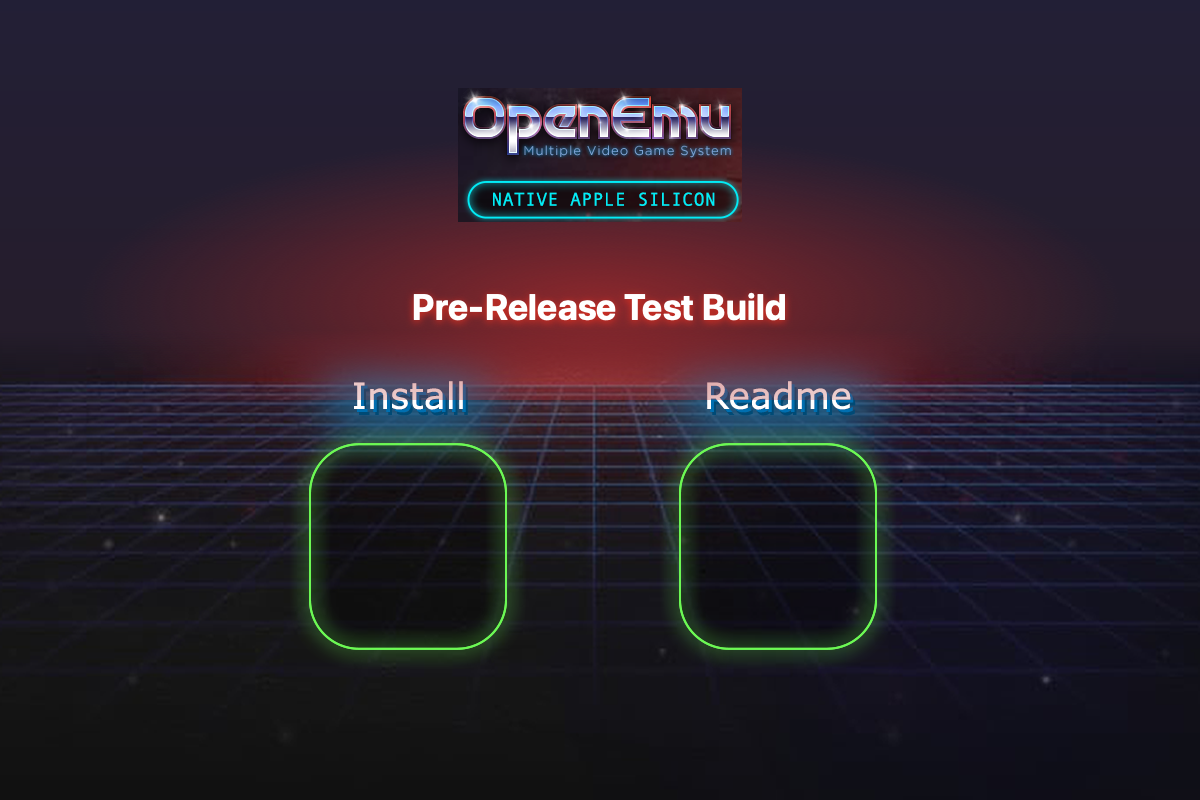
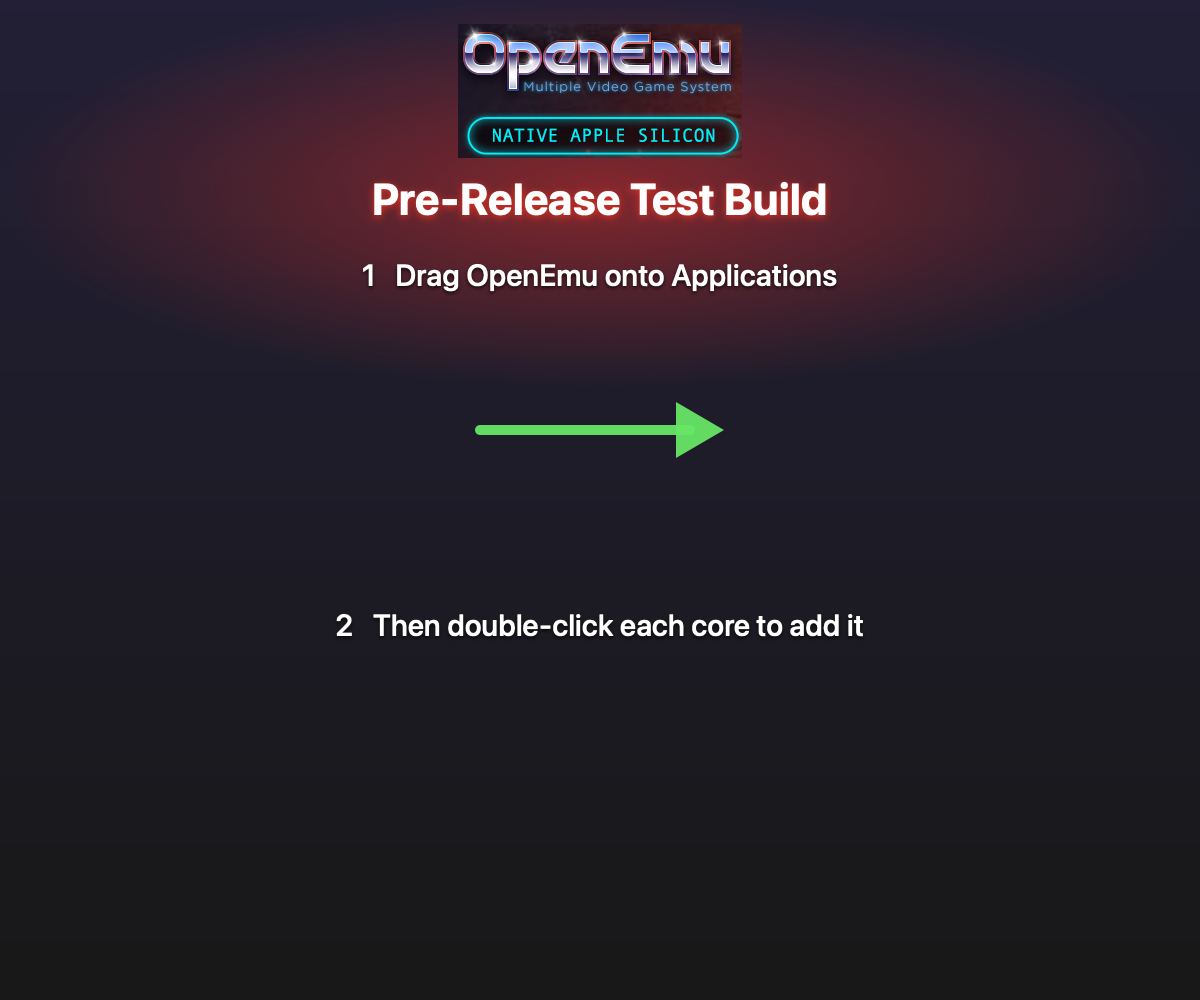
feat: preview DMG is a plain drag-to-Applications image with a Cores folder
The installer script and the installer app both proved fragile (Gatekeeper cannot
approve a script; a downloaded installer app runs from a temporary copy). Ship
OpenEmu.app, an Applications shortcut and a Cores folder instead; OpenEmu imports a
core plugin that is opened with it. New background with the two steps, readme and
tester notes updated.

diff --git a/Scripts/prerelease/make-background.swift b/Scripts/prerelease/make-background.swift
@@ -4,9 +4,10 @@
 // modification, are permitted provided that the following conditions are met:
 // ... (BSD 2-Clause, same as the rest of the app)
 //
-// make-background.swift: builds the pre-release DMG window background from the RetroAchievements review
-// background by covering its RetroAchievements logo and title with matching background and drawing the
-// pre-release title instead. Run once; the result is committed as dmg-assets/background.png.
+// make-background.swift: builds the pre-release DMG window background (600 x 500 points, drawn at 2x). It takes
+// the OpenEmu logo and the dark colours from the RetroAchievements review background and draws the rest: a
+// gradient, a red glow, the title, two numbered steps and an arrow. Finder puts the icons on top at the
+// positions set in build-preview-dmg.sh. Run once; the result is committed as dmg-assets/background.png.
 //
 //   swiftc -O Scripts/prerelease/make-background.swift -o /tmp/make-background
 //   /tmp/make-background Scripts/retro-achievements/dmg-assets/background.png Scripts/prerelease/dmg-assets/background.png
@@ -21,24 +22,16 @@ guard args.count == 3, let source = NSImage(contentsOfFile: args[1]),
     exit(1)
 }
 
-let w = cg.width, h = cg.height
+// Everything below is in points (600 x 500) and measured from the top left; S converts to pixels.
+let S = 2
+let w = 600 * S, h = 500 * S
 let space = CGColorSpace(name: CGColorSpace.sRGB)!
 let ctx = CGContext(data: nil, width: w, height: h, bitsPerComponent: 8, bytesPerRow: 0, space: space,
                     bitmapInfo: CGImageAlphaInfo.premultipliedLast.rawValue)!
+func y(_ top: CGFloat) -> CGFloat { CGFloat(h) - top * CGFloat(S) }  // top-left point -> context y
+func px(_ v: CGFloat) -> CGFloat { v * CGFloat(S) }
 
-// CoreGraphics has its origin at the bottom left; the layout below is measured from the top, as in an image editor.
-func rect(_ x: Int, _ top: Int, _ width: Int, _ height: Int) -> CGRect {
-    CGRect(x: x, y: h - top - height, width: width, height: height)
-}
-// CGImage.cropping measures from the top left, unlike the drawing context.
-func crop(_ x: Int, _ top: Int, _ width: Int, _ height: Int) -> CGImage {
-    cg.cropping(to: CGRect(x: x, y: top, width: width, height: height))!
-}
-
-ctx.draw(cg, in: CGRect(x: 0, y: 0, width: w, height: h))
-
-// 1. Replace everything above the grid (the RetroAchievements logo, divider and title included) with a smooth
-//    dark gradient sampled from the original's left edge, fading into the original where the grid begins.
+// Colours sampled from the original's left edge: dark navy at the top, near-black lower down.
 let sourceRep = NSBitmapImageRep(cgImage: cg)
 func average(_ x0: Int, _ y0: Int, _ width: Int, _ height: Int) -> (CGFloat, CGFloat, CGFloat) {
     var r: CGFloat = 0, g: CGFloat = 0, b: CGFloat = 0, n: CGFloat = 0
@@ -50,48 +43,55 @@ func average(_ x0: Int, _ y0: Int, _ width: Int, _ height: Int) -> (CGFloat, CGF
     return (r / n, g / n, b / n)
 }
 let top = average(10, 10, 180, 30)
-let low = average(10, 330, 180, 40)
-let gradientEnd = 380
-let fadeFrom = 330
-for row in 0..<gradientEnd {
-    let t = CGFloat(row) / CGFloat(gradientEnd)
-    let alpha: CGFloat = row < fadeFrom ? 1 : CGFloat(gradientEnd - row) / CGFloat(gradientEnd - fadeFrom)
+let low = average(10, 700, 180, 80)
+for row in 0..<h {
+    let t = CGFloat(row) / CGFloat(h)
     ctx.setFillColor(red: top.0 + (low.0 - top.0) * t, green: top.1 + (low.1 - top.1) * t,
-                     blue: top.2 + (low.2 - top.2) * t, alpha: alpha)
-    ctx.fill(rect(0, row, w, 1))
+                     blue: top.2 + (low.2 - top.2) * t, alpha: 1)
+    ctx.fill(CGRect(x: 0, y: y(CGFloat(row) / CGFloat(S) ) - 1, width: CGFloat(w), height: 1))
 }
 
-// 2. A soft red glow behind the title, like the original's.
+// A soft red glow behind the title, as in the original.
 ctx.saveGState()
-ctx.clip(to: rect(0, 0, w, 400))
-ctx.translateBy(x: 600, y: CGFloat(h) - 305)
+ctx.translateBy(x: CGFloat(w) / 2, y: y(95))
 ctx.scaleBy(x: 1, y: 0.33)
 let glow = CGGradient(colorsSpace: space,
-                      colors: [CGColor(red: 0.62, green: 0.1, blue: 0.13, alpha: 0.75), CGColor(red: 0.62, green: 0.1, blue: 0.13, alpha: 0)] as CFArray,
+                      colors: [CGColor(red: 0.62, green: 0.1, blue: 0.13, alpha: 0.7), CGColor(red: 0.62, green: 0.1, blue: 0.13, alpha: 0)] as CFArray,
                       locations: [0, 1])!
-ctx.drawRadialGradient(glow, startCenter: .zero, startRadius: 0, endCenter: .zero, endRadius: 520, options: [])
+ctx.drawRadialGradient(glow, startCenter: .zero, startRadius: 0, endCenter: .zero, endRadius: px(300), options: [])
 ctx.restoreGState()
 
-// 3. Redraw the OpenEmu logo (with its "Native Apple Silicon" pill) in the centre.
-let logo = crop(268, 88, 284, 134)
-ctx.draw(logo, in: rect(600 - 142, 88, 284, 134))
+// The OpenEmu logo (with its "Native Apple Silicon" pill) from the original, centred at the top.
+let logo = cg.cropping(to: CGRect(x: 268, y: 88, width: 284, height: 134))!
+ctx.draw(logo, in: CGRect(x: CGFloat(w) / 2 - 142 * CGFloat(S) / 2 * 1.0, y: y(12 + 67), width: 142 * CGFloat(S), height: 67 * CGFloat(S)))
 
-// 4. The new title, in the same style as the old one: white bold text with a red glow.
-let font = NSFont.boldSystemFont(ofSize: 36)
-let shadow = NSShadow()
-shadow.shadowColor = NSColor(calibratedRed: 0.85, green: 0.1, blue: 0.1, alpha: 0.95)
-shadow.shadowBlurRadius = 8
-shadow.shadowOffset = NSSize(width: 0, height: -2)
-let para = NSMutableParagraphStyle(); para.alignment = .center
-let attrs: [NSAttributedString.Key: Any] = [.font: font, .foregroundColor: NSColor.white, .shadow: shadow, .paragraphStyle: para]
-let title = NSAttributedString(string: "Pre-Release Test Build", attributes: attrs)
-NSGraphicsContext.saveGraphicsState()
-NSGraphicsContext.current = NSGraphicsContext(cgContext: ctx, flipped: false)
-title.draw(in: NSRect(x: 200, y: CGFloat(h) - 345, width: 800, height: 60))
-NSGraphicsContext.restoreGraphicsState()
+func text(_ string: String, size: CGFloat, bold: Bool, centreX: CGFloat, top t: CGFloat, glowRed: Bool = false) {
+    let font = bold ? NSFont.boldSystemFont(ofSize: size * CGFloat(S)) : NSFont.systemFont(ofSize: size * CGFloat(S), weight: .medium)
+    let shadow = NSShadow()
+    shadow.shadowColor = glowRed ? NSColor(calibratedRed: 0.85, green: 0.1, blue: 0.1, alpha: 0.95) : NSColor(calibratedWhite: 0, alpha: 0.7)
+    shadow.shadowBlurRadius = glowRed ? 8 : 4
+    shadow.shadowOffset = NSSize(width: 0, height: -2)
+    let para = NSMutableParagraphStyle(); para.alignment = .center
+    let attrs: [NSAttributedString.Key: Any] = [.font: font, .foregroundColor: NSColor.white, .shadow: shadow, .paragraphStyle: para]
+    NSGraphicsContext.saveGraphicsState()
+    NSGraphicsContext.current = NSGraphicsContext(cgContext: ctx, flipped: false)
+    NSAttributedString(string: string, attributes: attrs).draw(in: NSRect(x: centreX - px(300), y: y(t) - px(size * 1.4), width: px(600), height: px(size * 1.5)))
+    NSGraphicsContext.restoreGraphicsState()
+}
+text("Pre-Release Test Build", size: 22, bold: true, centreX: CGFloat(w) / 2, top: 88, glowRed: true)
+text("1   Drag OpenEmu onto Applications", size: 15, bold: false, centreX: CGFloat(w) / 2, top: 130)
+text("2   Then double-click each core to add it", size: 15, bold: false, centreX: CGFloat(w) / 2, top: 305)
+
+// An arrow from the app to the Applications shortcut (icons sit at x = 170 and 430, centre y = 215).
+ctx.setStrokeColor(red: 0.4, green: 0.9, blue: 0.4, alpha: 0.95)
+ctx.setFillColor(red: 0.4, green: 0.9, blue: 0.4, alpha: 0.95)
+ctx.setLineWidth(px(5)); ctx.setLineCap(.round)
+ctx.move(to: CGPoint(x: px(240), y: y(215))); ctx.addLine(to: CGPoint(x: px(345), y: y(215))); ctx.strokePath()
+ctx.move(to: CGPoint(x: px(362), y: y(215)))
+ctx.addLine(to: CGPoint(x: px(338), y: y(201))); ctx.addLine(to: CGPoint(x: px(338), y: y(229))); ctx.closePath(); ctx.fillPath()
 
 guard let out = ctx.makeImage() else { exit(1) }
 let rep = NSBitmapImageRep(cgImage: out)
-rep.size = NSSize(width: CGFloat(w) / 2, height: CGFloat(h) / 2)  // 144 dpi, like the original
+rep.size = NSSize(width: CGFloat(w) / 2, height: CGFloat(h) / 2)  // 144 dpi
 try! rep.representation(using: .png, properties: [:])!.write(to: URL(fileURLWithPath: args[2]))
 print("wrote \(args[2]) \(w)x\(h)")

diff --git a/Scripts/prerelease/dmg-assets/readme.html b/Scripts/prerelease/dmg-assets/readme.html
@@ -83,15 +83,17 @@
 <h2>Before you install</h2>
 <ul>
   <li><strong>Back up your OpenEmu library first</strong> (<code>~/Library/Application Support/OpenEmu</code>). This build changes how artwork is stored, so going back to an older OpenEmu afterwards may not show your new artwork.</li>
-  <li>Installing <strong>replaces</strong> <code>/Applications/OpenEmu.app</code> with this build.</li>
+  <li>Dragging OpenEmu to Applications <strong>replaces</strong> your current <code>/Applications/OpenEmu.app</code> with this build.</li>
   <li>This is a test build. The app keeps its normal update feed; it will only offer an update once a newer release is published.</li>
 </ul>
 
 <h2>Install</h2>
 <ol>
-  <li>Double-click <strong>Install</strong> in this disk image. It copies the app to <code>/Applications</code> and the cores to <code>~/Library/Application Support/OpenEmu/Cores/</code>.</li>
-  <li>Open OpenEmu from <code>/Applications</code>.</li>
+  <li>Quit OpenEmu if it is open. Drag <strong>OpenEmu</strong> onto <strong>Applications</strong> (choose Replace if it asks).</li>
+  <li>Open OpenEmu from <code>/Applications</code> once.</li>
+  <li>In the <strong>Cores</strong> folder on this disk image, double-click each core. OpenEmu copies it into its own Cores folder. If it asks you to restart OpenEmu, do.</li>
 </ol>
+<p>If a core does not import, copy the three <code>.oecoreplugin</code> files into <code>~/Library/Application Support/OpenEmu/Cores/</code> yourself and restart OpenEmu.</p>
 
 <h2>Cores in this build</h2>
 <table>

diff --git a/docs/prerelease-tester-notes.md b/docs/prerelease-tester-notes.md
@@ -20,27 +20,25 @@ Thank you for helping test. This is an early build, not a normal release. The ap
 ## Before you install (please read)
 
 1. **Back up your library.** Copy `~/Library/Application Support/OpenEmu` somewhere safe. The new artwork storage changes how pictures are kept, and going back to an older OpenEmu later may not show artwork you changed in this build.
-2. **Installing replaces `/Applications/OpenEmu.app`** with this build. Your games and saves are left alone (they live in the folder you just backed up).
+2. **Dragging OpenEmu to Applications replaces `/Applications/OpenEmu.app`** with this build. Your games and saves are left alone (they live in the folder you just backed up).
 3. **You bring your own game files.** We do not provide, and cannot help you find, game images, 3DS keys, or a PlayStation 2 BIOS.
 
 ## Install
 
-1. Open the DMG and double-click **Install**. It copies the app to `/Applications` and the new cores to `~/Library/Application Support/OpenEmu/Cores/`.
-2. Open OpenEmu from `/Applications`.
-3. **If Install does nothing,** install by hand. Open the disk image so it is mounted, quit OpenEmu, then paste this into Terminal (macOS may ask to let Terminal change apps; allow it):
+1. Quit OpenEmu if it is open. Open the disk image and drag **OpenEmu** onto **Applications** (choose Replace if it asks).
+2. Open OpenEmu from `/Applications` once.
+3. In the **Cores** folder on the disk image, double-click each core (`Azahar`, `PCSX2`, `FBNeo`). OpenEmu copies it into its own Cores folder. If it asks you to restart OpenEmu, do.
+4. **If a core does not import,** copy it in by hand. With the disk image open, paste this into Terminal:
    ```bash
-   V="$(ls -d /Volumes/OpenEmu\ Preview*/.payload | head -1)"
-   rm -rf /Applications/OpenEmu.app
-   ditto "$V/OpenEmu.app" /Applications/OpenEmu.app
+   V="$(ls -d /Volumes/OpenEmu\ Preview* | head -1)"
    mkdir -p ~/Library/Application\ Support/OpenEmu/Cores
-   for p in "$V/Preview Cores"/*.oecoreplugin; do
+   for p in "$V/Cores"/*.oecoreplugin; do
      rm -rf ~/Library/Application\ Support/OpenEmu/Cores/"$(basename "$p")"
      ditto "$p" ~/Library/Application\ Support/OpenEmu/Cores/"$(basename "$p")"
    done
-   xattr -cr /Applications/OpenEmu.app
    ```
-   Then tell us your macOS version and what you saw when you double-clicked Install.
-4. To go back: quit OpenEmu, delete `/Applications/OpenEmu.app`, install the latest normal release from the Releases page, then (if you want) delete `Azahar.oecoreplugin` and `PCSX2.oecoreplugin` from the Cores folder and restore your library backup.
+   Then restart OpenEmu, and tell us your macOS version and what happened.
+5. To go back: quit OpenEmu, delete `/Applications/OpenEmu.app`, install the latest normal release from the Releases page, then (if you want) delete `Azahar.oecoreplugin` and `PCSX2.oecoreplugin` from the Cores folder and restore your library backup.
 
 ## What to try
 

diff --git a/docs/prerelease-checklist.md b/docs/prerelease-checklist.md
@@ -78,9 +78,9 @@ I did not run any of these, and did not run `package-core.sh`, `release.sh`, or 
 
 ## Sharing it with testers (the FBNeo-style test DMG)
 
-The earlier FBNeo pre-release was an all-in-one DMG (app, cores, an Install script, a readme) attached to a GitHub pre-release. The same route is set up for this one. It is separate from the normal release above: it does not touch Sparkle or the appcasts.
+The earlier FBNeo pre-release was an all-in-one DMG attached to a GitHub pre-release. This one is a test DMG too, but a plain drag-to-Applications image. It is separate from the normal release above: it does not touch Sparkle or the appcasts.
 
 1. **Use the pre-release branch.** `prerelease/preview-2026-11` is `main` plus one change: the Big Picture menu item is compiled into release builds (on `main` it is debug-only). Keep that change out of `main`. Check it out in a clean worktree, and make sure `OpenEmu/ScreenScraperDevCredentials.swift` and `OpenEmu/CheatWorksSecrets.swift` are your real files (the script stops if they are placeholders).
-2. **Build the DMG:** `./Scripts/prerelease/build-preview-dmg.sh`. It asks for the app version (suggests 1.4.1), builds Azahar, PCSX2 and FBNeo (list in `Scripts/prerelease/dmg-assets/preview-cores.txt`), builds the Release app, signs with your Developer ID if it is in the keychain, notarizes if the `OpenEmu` notarytool profile exists, and writes `Scripts/prerelease/build/OpenEmu-Silicon-Preview-<version>-RC-<date>-<sha>.dmg` plus a `.sha256`. It edits two tracked files while it runs (`preview-cores.txt`, `readme.html`); `git checkout` them afterwards. This script has not been run end to end, only syntax-checked, because it signs and notarizes.
+2. **Build the DMG:** `./Scripts/prerelease/build-preview-dmg.sh`. It asks for the app version (suggests 1.4.1), builds Azahar, PCSX2 and FBNeo (list in `Scripts/prerelease/dmg-assets/preview-cores.txt`), builds the Release app, signs with your Developer ID if it is in the keychain, notarizes if the `OpenEmu` notarytool profile exists, and writes `Scripts/prerelease/build/OpenEmu-Silicon-Preview-<version>-RC-<date>-<sha>.dmg` plus a `.sha256`. The image is a plain drag-to-Applications image (OpenEmu, an Applications shortcut, and a Cores folder whose cores the tester double-clicks to import); there is no installer. It edits two tracked files while it runs (`preview-cores.txt`, `readme.html`); `git checkout` them afterwards. The script was run end to end on 2026-11-17 and its output notarized and stapled.
 3. **Create the GitHub pre-release** tagged `preview-<date>-<sha>`, marked pre-release, and attach the DMG and `.sha256`. Paste `docs/prerelease-tester-notes.md` as the description, filling in the build name, commit, DMG link and SHA-256 near the top.
 4. Before you post, install the DMG on a Mac and run Big Picture, one 3DS game and one PS2 game from it (the release-signed keyboard check is still open).
